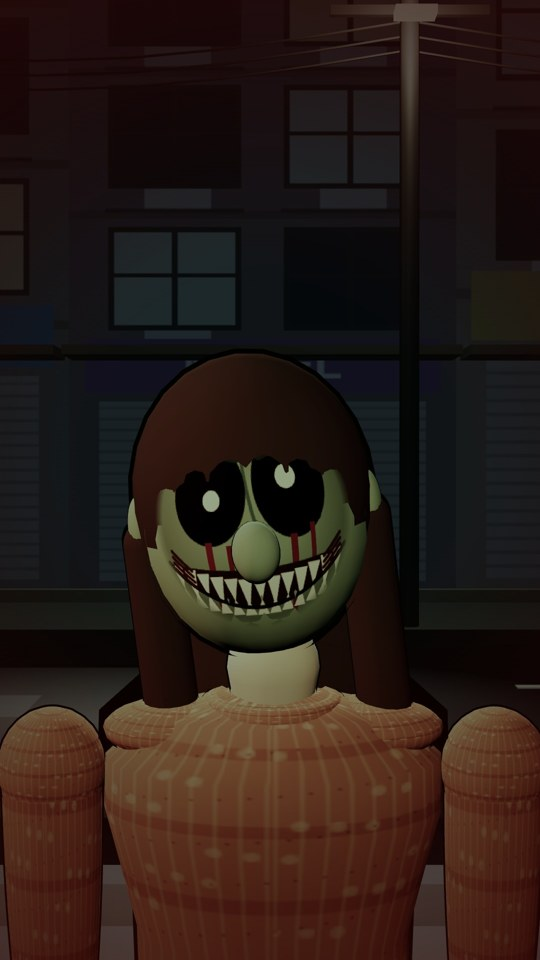
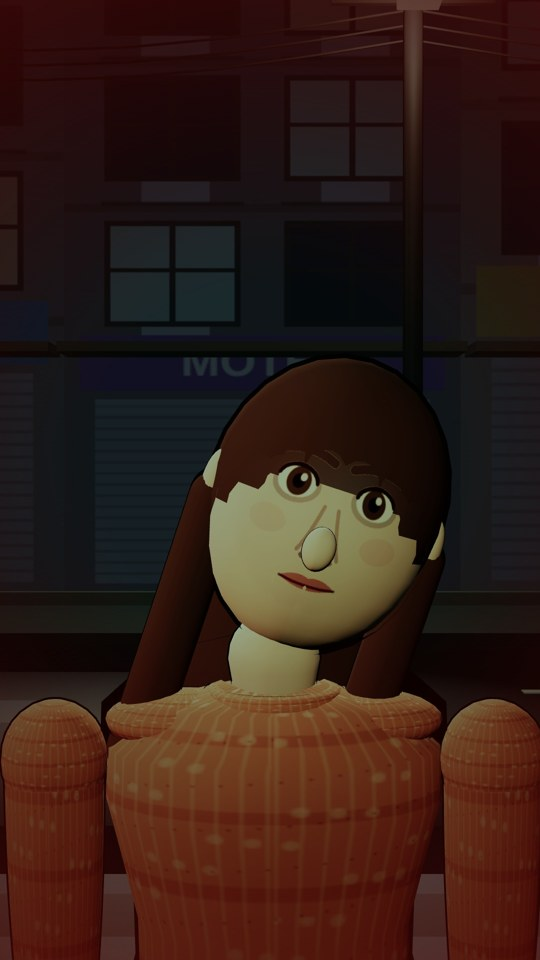
Cover: woman's normal face (no reveal); smaller nose

diff --git a/studio/free3d/people3d.js b/studio/free3d/people3d.js
@@ -81,7 +81,7 @@ function makePerson(cfg){const g=new THREE.Group(),L=c=>new THREE.MeshLambertMat
  // head
  const head=new THREE.Group();head.position.set(0,1.5,0);body.add(head);const F=faceTex(cfg);
  const hm=L(cfg.zombie?'#76946c':cfg.skin);const hd=add(SPH(.125),hm,0,.165,0,head,null,[1,1.2,1.07]);
- add(SPH(.024),hm,0,.15,.14,head,null,[1,1.3,1.1]);add(SPH(.03),hm,.125,.17,0,head,null,[.5,1.2,.9]);add(SPH(.03),hm,-.125,.17,0,head,null,[.5,1.2,.9]);
+ add(SPH(.017),hm,0,.145,.138,head,null,[1,1.35,1.15]);add(SPH(.03),hm,.125,.17,0,head,null,[.5,1.2,.9]);add(SPH(.03),hm,-.125,.17,0,head,null,[.5,1.2,.9]);
  const fm=new THREE.MeshLambertMaterial({map:F.t,transparent:true,depthWrite:false,polygonOffset:true,polygonOffsetFactor:-2});
  const patch=new THREE.Mesh(new THREE.SphereGeometry(.1262,24,18,Math.PI/2-.95,1.9,.55,1.8),fm);patch.position.set(0,.17,0);patch.scale.set(1,1.2,1.07);patch.userData.noOL=1;head.add(patch);
  const hc=L(cfg.hc);

diff --git a/studio/free3d/package_batch.py b/studio/free3d/package_batch.py
@@ -14,8 +14,8 @@ def one(k):
     NOTEXT=(k=='ks1')
     if NOTEXT:
         sh=dict([x for x in ep['shots'] if 'REFUSED' in x.get('place','')][0]);KX,KZ=100,-60
-        sh.update(noUI=True,lines=[],icons=[],hands=[],panic=.9,typed=False,grade='dead',fov=36,cam=[[KX-.1,1.62,KZ+.3],[KX-.1,1.6,KZ+2.4],[KX-.1,1.62,KZ+.3],[KX-.1,1.6,KZ+2.4]],
-                  p3=[dict(who='woman',pos=[KX-.1,KZ+2.0],expr='zomb',lean=.1,tilt=.12,headYaw=0,still=True,noShadow=True,nocam=True,face=[KX-.1,KZ-5])],cues=[],sfx=[])
+        sh.update(noUI=True,lines=[],icons=[],hands=[],panic=.55,typed=False,grade='dead',fov=36,cam=[[KX-.1,1.62,KZ+.3],[KX-.1,1.6,KZ+2.4],[KX-.1,1.62,KZ+.3],[KX-.1,1.6,KZ+2.4]],
+                  p3=[dict(who='woman',pos=[KX-.1,KZ+2.0],expr='calm',lean=.06,tilt=-.32,headYaw=0,still=True,noShadow=True,nocam=True,face=[KX-.1,KZ-5])],cues=[],sfx=[])
         sp=dict(series=ep['series'],title='COVER',part=0,of=0,dur=2,shots=[dict(sh,t0=0,t1=2)]);t=1
     else:
         si,l1,l2,pill=CV[k];sh=dict(ep['shots'][si-1]);t=(sh['t0']+sh['t1'])/2
